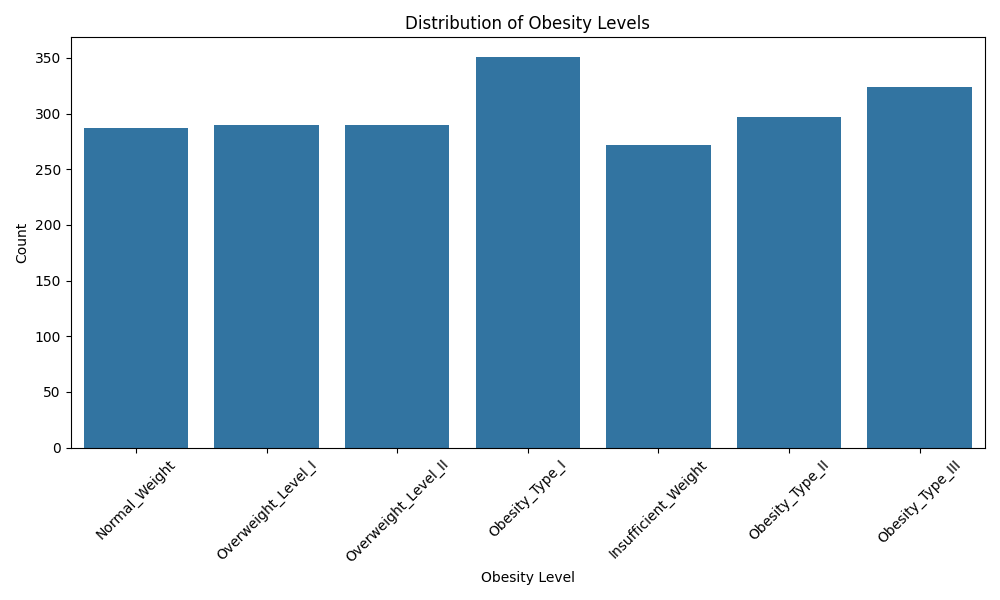
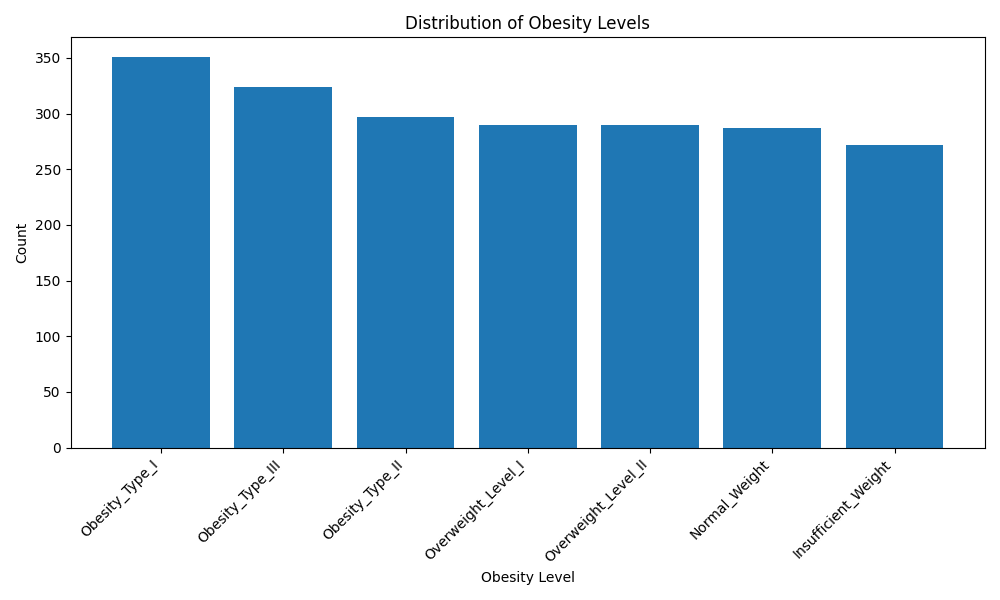
Remove empty notebook and update visualization

diff --git a/utils/visualization.py b/utils/visualization.py
@@ -1,65 +1,69 @@
 import os
 import matplotlib.pyplot as plt
-import seaborn as sns
 from config import OUTPUT_FIGURES_PATH, TARGET_COLUMN
 
 
 def create_output_folder():
     """
-    Create output folder for saved figures.
+    Create output folder for figures.
     """
     os.makedirs(OUTPUT_FIGURES_PATH, exist_ok=True)
 
 
 def plot_target_distribution(dataframe):
     """
-    Plot and save the distribution of obesity levels.
+    Plot obesity level distribution.
     """
     create_output_folder()
 
+    counts = dataframe[TARGET_COLUMN].value_counts()
+
     plt.figure(figsize=(10, 6))
-    sns.countplot(data=dataframe, x=TARGET_COLUMN)
+    plt.bar(counts.index, counts.values)
     plt.title("Distribution of Obesity Levels")
     plt.xlabel("Obesity Level")
     plt.ylabel("Count")
-    plt.xticks(rotation=45)
+    plt.xticks(rotation=45, ha="right")
     plt.tight_layout()
-
     plt.savefig(f"{OUTPUT_FIGURES_PATH}/obesity_level_distribution.png")
     plt.close()
 
 
 def plot_confusion_matrix(matrix):
     """
-    Plot and save the confusion matrix.
+    Plot confusion matrix.
     """
     create_output_folder()
 
     plt.figure(figsize=(8, 6))
-    sns.heatmap(matrix, annot=True, fmt="d")
+    plt.imshow(matrix)
     plt.title("Confusion Matrix")
     plt.xlabel("Predicted Label")
     plt.ylabel("Actual Label")
-    plt.tight_layout()
+    plt.colorbar()
 
+    for i in range(matrix.shape[0]):
+        for j in range(matrix.shape[1]):
+            plt.text(j, i, matrix[i, j], ha="center", va="center")
+
+    plt.tight_layout()
     plt.savefig(f"{OUTPUT_FIGURES_PATH}/confusion_matrix.png")
     plt.close()
 
 
 def plot_feature_importance(model, feature_names):
     """
-    Plot and save feature importance from the Random Forest model.
+    Plot feature importance.
     """
     create_output_folder()
 
     importance = model.feature_importances_
 
     plt.figure(figsize=(10, 6))
-    sns.barplot(x=importance, y=feature_names)
+    plt.barh(feature_names, importance)
     plt.title("Feature Importance")
     plt.xlabel("Importance Score")
     plt.ylabel("Features")
     plt.tight_layout()
-
     plt.savefig(f"{OUTPUT_FIGURES_PATH}/feature_importance.png")
     plt.close()